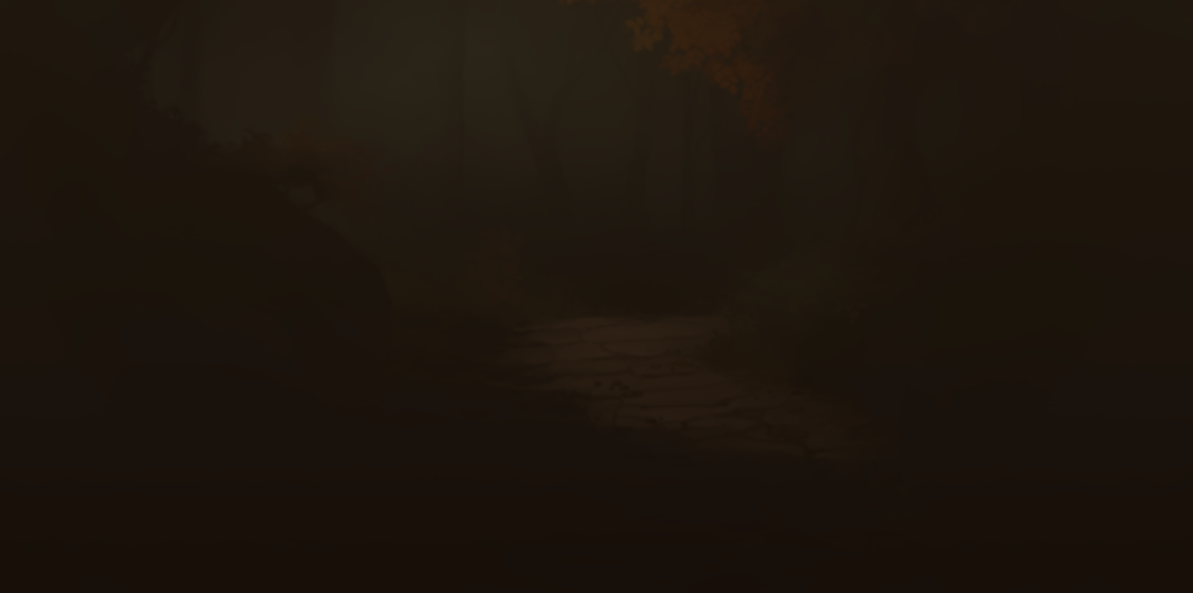
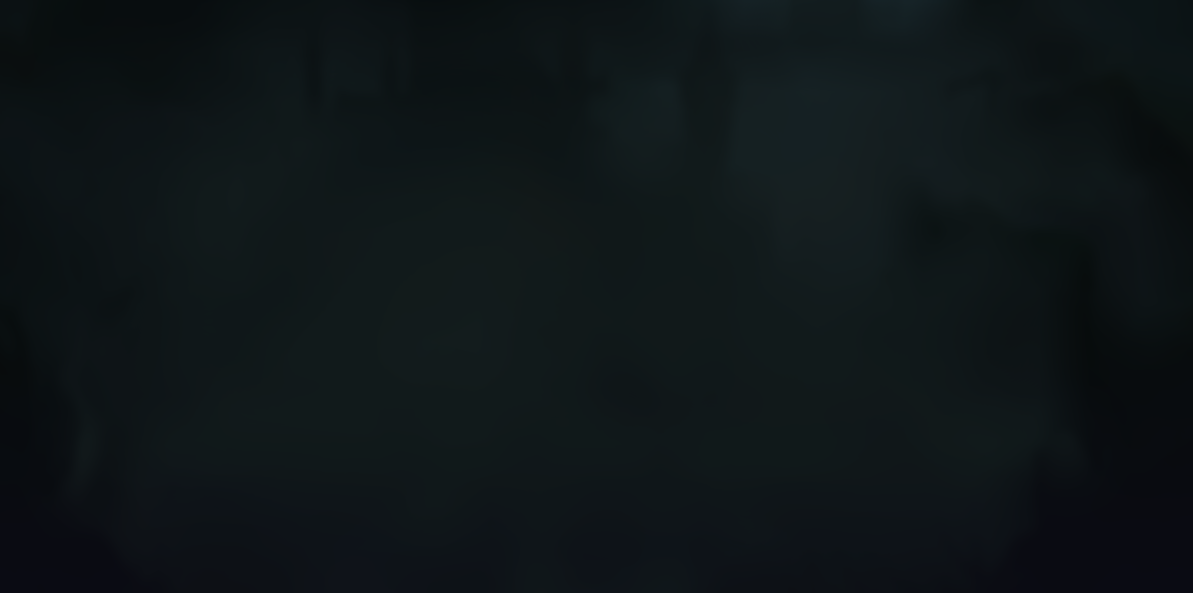
GridStudio 1.9.8
Dota's update of 2026-10-07 (client 6946–6951): the main menu's default background is now the Monster
Hoard treasure promo and Valve's news column has its own «Диковинки Квортеро» cell.
- assets/dota-menu/dashboard.xml follows the new override-background; the rest of the menu layouts are
  unchanged. check-dota-menu.mjs reads Source 2 Viewer 12's references without «_c» like ours.
- The pack no longer adds our event button (event.json no longer matches); the builder's preview shows
  Valve's Quartero cell (assets/dota-menu/ui/season.webp, scripts/make-menu-season.mjs).
- News cards one by one: switches for Dark Carnival and Quartero (recipe `news`). Both hidden cut
  #TodayPages as before; one hidden adds panorama/styles/gridstudio_home.vcss_c collapsing its cell.
- The «Как в Dota» grid backdrop from monster_hoard_2026_background_png.vtex_c, blurred by 6 px like
  every page but home, fitted to the user's «Герои» screenshot with the grid masked
  (make-grid-background.mjs --blur 6 --content).

Changed region(s): [[0.1241, 0.0, 0.6513, 0.2732], [0.4652, 0.516, 0.5893, 0.6981]]

diff --git a/src/customize/MenuBackground.jsx b/src/customize/MenuBackground.jsx
@@ -193,7 +193,7 @@ function OwnFields({ own, aspect, where }) {
 export default function MenuBackground({ preset = null, studioItem = null, onRemove }) {
   const [file, setFile] = useState(null), [kind, setKind] = useState(null), [source, setSource] = useState(''), [aspect, setAspect] = useState('16:9'), [fit, setFit] = useState('cover');
   const [blur, setBlur] = useState(0), [dim, setDim] = useState(0), [frame, setFrame] = useState(MENU_FRAME), [framing, setFraming] = useState(null);
-  const [clean, setClean] = useState(false), [seasonButton, setSeasonButton] = useState(true), [profileLinks, setProfileLinks] = useState(true), [folder, setFolder] = useState(lang === 'en' ? 'english' : 'russian'), [delivery, setDelivery] = useState('file');
+  const [carnival, setCarnival] = useState(true), [seasonCard, setSeasonCard] = useState(true), clean = !carnival && !seasonCard, [seasonButton, setSeasonButton] = useState(true), [profileLinks, setProfileLinks] = useState(true), [folder, setFolder] = useState(lang === 'en' ? 'english' : 'russian'), [delivery, setDelivery] = useState('file');
   const [duration, setDuration] = useState(0), [piece, setPiece] = useState({ start: 0, end: 0 }), [crossfade, setCrossfade] = useState(0);
   const [mediaRatio, setMediaRatio] = useState(0), [progress, setProgress] = useState(null), [result, setResult] = useState(null), [error, setErrorText] = useState(''), [failed, setFailed] = useState(false), [install, setInstall] = useState(false), [handed, setHanded] = useState(null), [sources, setSources] = useState(false), [share, setShare] = useState(false), [dragging, setDragging] = useState(false), [fetching, setFetching] = useState(null), [sending, setSending] = useState(null);
   const input = useRef(null), running = useRef(null), playhead = useRef(null), seek = useRef(null);
@@ -218,7 +218,7 @@ export default function MenuBackground({ preset = null, studioItem = null, onRem
   useEffect(() => () => source && URL.revokeObjectURL(source), [source]);
   useEffect(() => () => { if (result) for (const url of [result.url, result.heroUrl, result.gridUrl]) if (url) URL.revokeObjectURL(url); }, [result]);
   // Changing anything that is baked into the videos or the pack makes the result stale.
-  useEffect(() => { setResult(null); }, [file, aspect, fit, blur, dim, clean, seasonButton, profileLinks, piece.start, piece.end, crossfade, frame,
+  useEffect(() => { setResult(null); }, [file, aspect, fit, blur, dim, carnival, seasonCard, seasonButton, profileLinks, piece.start, piece.end, crossfade, frame,
     heroMode, ...heroOwn.stale, gridMode, gridDim, ...gridOwn.stale]);
   useEffect(() => () => running.current?.abort(), []);
   // A background from the studio: settings now, the source next (see `pending`).
@@ -230,7 +230,7 @@ export default function MenuBackground({ preset = null, studioItem = null, onRem
       if (stopped) return;
       if (!record) return setError(t('Этого фона нет в студии: возможно, его удалили.'));
       const recipe = record.recipe;
-      setAspect(recipe.aspect); setFit(recipe.fit); setBlur(recipe.blur); setDim(recipe.dim); setClean(recipe.clean); setSeasonButton(recipe.event ?? true); setProfileLinks(recipe.profile ?? true); setFolder(folderOf(recipe.folder).client); setDelivery(recipe.delivery === 'installer' ? 'command' : recipe.delivery); setFrame(menuFrame(recipe.frame));
+      setAspect(recipe.aspect); setFit(recipe.fit); setBlur(recipe.blur); setDim(recipe.dim); setCarnival(recipe.news?.carnival ?? !recipe.clean); setSeasonCard(recipe.news?.season ?? !recipe.clean); setSeasonButton(recipe.event ?? true); setProfileLinks(recipe.profile ?? true); setFolder(folderOf(recipe.folder).client); setDelivery(recipe.delivery === 'installer' ? 'command' : recipe.delivery); setFrame(menuFrame(recipe.frame));
       pending.current = recipe; studioId.current = record.id; setStudio({ id: record.id, name: record.name, saved: false });
       const hero = recipe.hero || { mode: 'menu' }, grid = recipe.grid || { mode: 'menu' };
       setHeroMode(hero.mode);
@@ -323,9 +323,9 @@ export default function MenuBackground({ preset = null, studioItem = null, onRem
       const gridEncoded = ownGrid ? await encode(gridOwn.file, gridOwn.encoding) : null;
       const hero = ownHero ? { mode: 'own', ...heroOwn.recipe } : { mode: heroMode === 'off' ? 'off' : 'menu' };
       const grid = ownGrid ? { mode: 'own', ...gridOwn.recipe } : gridMode === 'dim' ? { mode: 'dim', dim: gridDim } : { mode: 'menu' };
-      const blob = packBackground(encoded.video, { clean, hero, event: seasonButton, profile: profileLinks, grid }, heroEncoded?.video, gridEncoded?.video);
+      const blob = packBackground(encoded.video, { news: { carnival, season: seasonCard }, hero, event: seasonButton, profile: profileLinks, grid }, heroEncoded?.video, gridEncoded?.video);
       // Kept in the studio: this browser gets the WebMs, a signed-in account the recipe.
-      const recipe = { aspect, fit, blur, dim, frame, clean, event: seasonButton, profile: profileLinks, folder, delivery, piece: duration ? piece : null, crossfade: duration ? crossfade : 0, source: origin, hero, grid };
+      const recipe = { aspect, fit, blur, dim, frame, clean, news: { carnival, season: seasonCard }, event: seasonButton, profile: profileLinks, folder, delivery, piece: duration ? piece : null, crossfade: duration ? crossfade : 0, source: origin, hero, grid };
       saving.current = saveBuiltBackground({ id: studioId.current, recipe, video: encoded.video, heroVideo: heroEncoded?.video, gridVideo: gridEncoded?.video, codec: encoded.codec, seconds: encoded.seconds });
       saving.current.then((record) => { studioId.current = record.id; setStudio({ id: record.id, name: record.name, saved: true, account: record.account }); })
         .catch(() => setStudio((current) => ({ ...current, failed: true })));
@@ -423,7 +423,7 @@ export default function MenuBackground({ preset = null, studioItem = null, onRem
           {/* The hero can be turned once there is a background behind it; until then it stands behind the «+». */}
           {page === 'hero' ? <DotaHeroPage interactive={heroMode === 'off' || Boolean(heroMode === 'own' ? ownShown : shown)}/>
             : page === 'grid' ? <DotaGridPage grid={preview.grid} name={preview.name}/>
-            : <DotaMenu clean={clean} event={SEASON_EVENT ? seasonButton : null}/>}
+            : <DotaMenu news={{ carnival, season: seasonCard }} event={SEASON_EVENT ? seasonButton : null}/>}
           {fetching && <div className="custom-fetching" role="status"><b>{fetching.title ? t('Загружаем «{title}»', { title: fetching.title }) : t('Загружаем фон…')}</b><span><i style={{ width: `${Math.round(fetching.progress * 100)}%` }}/></span></div>}
         </div>
       </div>
@@ -460,7 +460,9 @@ export default function MenuBackground({ preset = null, studioItem = null, onRem
         <Field label={t('Картинка')} aside={FITS()[fit]}><Segmented label={t('Как вписать')} value={fit} onChange={setFit} options={FIT_OPTIONS()}/>
           <Effects blur={blur} onBlur={setBlur} dim={dim} onDim={setDim} frame={file ? frame : null} onFrame={setFrame}/></Field>
         <div className="custom-switches">
-          <label className="custom-toggle"><input type="checkbox" role="switch" checked={!clean} onChange={(event) => setClean(!event.target.checked)}/><span><b>{t('Отображать новости на главной')}</b><small>{t('Выключи, чтобы колонка справа не закрывала фон')}</small></span></label>
+          {/* The news column's two cards, each its own switch (2026-10-08): Dark Carnival and Valve's own «Диковинки Квортеро». */}
+          <label className="custom-toggle"><input type="checkbox" role="switch" checked={carnival} onChange={(event) => setCarnival(event.target.checked)}/><span><b>{t('Карточка Dark Carnival на главной')}</b><small>{t('Выключи, чтобы она не закрывала фон')}</small></span></label>
+          <label className="custom-toggle"><input type="checkbox" role="switch" checked={seasonCard} onChange={(event) => setSeasonCard(event.target.checked)}/><span><b>{t('Карточка «Диковинки Квортеро» на главной')}</b><small>{t('Выключи, чтобы она не закрывала фон')}</small></span></label>
           {SEASON_EVENT && <label className="custom-toggle"><input type="checkbox" role="switch" checked={seasonButton} onChange={(event) => setSeasonButton(event.target.checked)}/><span><b>{t('Кнопка «{name}»', { name: t(SEASON_EVENT.name) })}</b><small>{t('Ивент с наградами в один клик — нажми в превью')}</small></span></label>}
           <Peek src={profilePreview} width={480} height={144} caption={t('Так кнопки встанут в профиле любого пользователя Dota, под статусом: открывают его страницу на Stratz и Dotabuff.')}>
             <label className="custom-toggle"><input type="checkbox" role="switch" checked={profileLinks} onChange={(event) => setProfileLinks(event.target.checked)}/><span><b>{t('Кнопки Stratz и Dotabuff в профилях')}</b><small>{t('Наведи, чтобы увидеть, как это выглядит')}</small></span></label>

diff --git a/src/customize/DotaMenu.jsx b/src/customize/DotaMenu.jsx
@@ -3,7 +3,8 @@ import bar from '../../assets/dota-menu/ui/bar.webp';
 import barMid from '../../assets/dota-menu/ui/bar-mid.webp';
 import play from '../../assets/dota-menu/ui/play.webp';
 import chat from '../../assets/dota-menu/ui/chat.webp';
-import news from '../../assets/dota-menu/ui/news.webp';
+import newsCell from '../../assets/dota-menu/ui/news.webp';
+import seasonCell from '../../assets/dota-menu/ui/season.webp';
 import rail from '../../assets/dota-menu/ui/rail.webp';
 import railParty from '../../assets/dota-menu/ui/rail-party.webp';
 import avatar from '../../assets/dota-menu/ui/avatar.webp';
@@ -26,7 +27,10 @@ import eventScreen from '../../assets/dota-menu/ui/event-screen.webp';
 // «НАЗАД», like in the game: drawn in CSS like the pack's, with the logo and the texts from
 // scripts/make-menu-event.mjs (the screen loads on the first hover). `event` is null when the site
 // has no event; false keeps the button mounted but away, so turning it on and off both animate.
-export default function DotaMenu({ clean, event = null }) {
+// news: { carnival, season } — which cards of the news column show (2026-10-08); hiding Dark Carnival
+// moves the Quartero card up to the column's top, like the column's flow in the game.
+export default function DotaMenu({ news = { carnival: true, season: true }, event = null }) {
+  const clean = !news.carnival;
   const frame = useRef(null), layer = useRef(null), mail = useRef(null), [open, setOpen] = useState(false);
   const [season, setSeason] = useState(false), [warm, setWarm] = useState(false), [loaded, setLoaded] = useState(false);
   useEffect(() => { if (!event) setSeason(false); }, [event]);
@@ -59,8 +63,10 @@ export default function DotaMenu({ clean, event = null }) {
     <div className="dm-bar-right" style={{ backgroundImage: `url(${bar})` }}/>
     <div className="dm-rail"><img src={rail} alt=""/></div>
     <div className="dm-party"><img src={railParty} alt=""/><img className="dm-party-me" src={avatar} alt=""/></div>
-    {/* Stays mounted, so hiding and showing the news both animate. */}
-    <img className={`dm-news${clean ? ' is-hidden' : ''}`} src={news} alt=""/>
+    {/* Stays mounted, so hiding and showing the news both animate. Under the event card, since Dota's
+        update of 2026-10-07, Valve's own «Диковинки Квортеро» cell (scripts/make-menu-season.mjs). */}
+    <img className={`dm-news${news.carnival ? '' : ' is-hidden'}`} src={newsCell} alt=""/>
+    <img className={`dm-news dm-season${news.season ? '' : ' is-hidden'}${news.carnival ? '' : ' is-top'}`} src={seasonCell} alt=""/>
     {/* Under the event card, or at the column's top when the news are hidden (MENU_UI in menu-background.mjs). */}
     {event !== null && <button type="button" tabIndex={-1} className={`dm-event-toggle${clean ? ' is-top' : ''}${event ? '' : ' is-off'}`} onPointerEnter={() => setWarm(true)}
       onPointerDown={(e) => e.stopPropagation()} onClick={() => { setWarm(true); setSeason((value) => !value); }}>

diff --git a/src/customize/background-pack.js b/src/customize/background-pack.js
@@ -40,7 +40,10 @@ export function saveFile(blob, name) {
 export const SEASON_EVENT = menuEvent(dashboard, season);
 const gridOption = (grid, gridVideo) => grid?.mode === 'dim' ? { page: heroesPage, dim: (grid.dim / 100) * GRID_DIM.max }
   : grid?.mode === 'own' && gridVideo ? { page: heroesPage, video: gridVideo } : null;
-export const packBackground = (video, { clean, hero = { mode: 'menu' }, event = true, profile = true, grid = { mode: 'menu' } }, heroVideo = null, gridVideo = null) => new Blob([menuBackgroundPack({ video, dashboard, home: clean ? home : null,
+// news: { carnival, season } — the home page's news cards that stay (2026-10-08); `clean` (before it)
+// hides both.
+export const packBackground = (video, { clean, news = null, hero = { mode: 'menu' }, event = true, profile = true, grid = { mode: 'menu' } }, heroVideo = null, gridVideo = null) => new Blob([menuBackgroundPack({ video, dashboard, home,
+  news: clean ? { carnival: false, season: false } : { carnival: news?.carnival !== false, season: news?.season !== false },
   hero: hero?.mode === 'off' ? null : { page: heroPage, video: hero?.mode === 'own' ? heroVideo : null }, event: event ? season : null,
   profile: profile ? { page: showcase, icons: { stratz, dotabuff } } : null, grid: gridOption(grid, gridVideo), md5 })], { type: 'application/octet-stream' });
 // «Командой PowerShell» (and the .bat installer's 'installer' of before): the pack goes to the site and

diff --git a/src/customize/customize.css b/src/customize/customize.css
@@ -249,6 +249,8 @@ html:has(#catalog-root .custom-app), body:has(#catalog-root .custom-app) { overf
   transition:opacity 340ms var(--ease) 140ms, transform 440ms var(--ease) 140ms; }
 /* Hiding the news: the card leaves first and the event button glides up into its place; showing
    them: the button goes down first and the card comes back after it (the delays below). */
+.dm-season { top:600px; height:234px; transition:opacity 340ms var(--ease) 140ms, transform 440ms var(--ease) 140ms, top 440ms var(--ease); }
+.dm-season.is-top { top:100px; }
 .dm-news.is-hidden { opacity:0; transform:translateX(24px) scale(.98); transition:opacity 220ms ease-in, transform 300ms ease-in; }
 /* The season event (DotaMenu `event`): the screen between the friends rail and the news column, its
    own picture blurred behind the edges, under the panels; the button and its «НАЗАД» state. The

diff --git a/src/i18n/en/customize.js b/src/i18n/en/customize.js
@@ -125,6 +125,9 @@ export default {
   'Экран': 'Screen',
   'Как вписать': 'How to fit',
   'Отображать новости на главной': 'Show news on the home page',
+  'Карточка Dark Carnival на главной': 'Dark Carnival card on the home page',
+  'Карточка «Диковинки Квортеро» на главной': 'Quartero\'s Curios card on the home page',
+  'Выключи, чтобы она не закрывала фон': 'Turn off so it does not cover the background',
   'Выключи, чтобы колонка справа не закрывала фон': 'Turn off so the right column doesn’t cover the background',
   // The event's English name in the client is not known here: the button is named by what it is.
   'Кнопка «{name}»': '“{name}” button',

diff --git a/docs/customize.md b/docs/customize.md
@@ -47,6 +47,13 @@
 - Превью (`DotaMenu.jsx`, проп `event`): кнопка нарисована в CSS по тем же числам, что и в паке; логотип вырезан со скриншота меню с паком (отделён от тёмной подложки кнопки), надписи «Диковинки Квортеро» и «Назад» нарисованы шрифтом Radiance, как панель друзей (`scripts/make-menu-event.mjs`, скриншоты пользователя от 01.10.2026 в репозиторий не попадают). Всё анимировано (`customize.css`, `.dm-event*`; при «уменьшении движения» анимаций нет): галочка уводит кнопку вправо и возвращает её, логотип и надпись догоняют; при выключении новостей карточка уходит первой, а кнопка с задержкой поднимается на её место, при возврате — наоборот; надпись и «НАЗАД» меняются, уезжая вверх и приходя снизу; экран ивента проявляется, оседая из лёгкого увеличения (только когда картинка загрузилась), и гаснет быстрее. Клик показывает середину экрана ивента между панелью друзей и колонкой (1134 × 959 px, грузится при первом наведении), по краям — та же картинка, размытая. Галочка «Кнопка «Диковинки Квортеро»» есть, только пока `event.json` совпадает с меню.
 - Рецепт студии хранит `event`; у рецептов до 1.6.4 его нет — кнопка включена.
 
+### Обновление Dota 7 октября 2026 (1.9.8)
+
+- Главный экран Valve по умолчанию — промо сокровищницы `dashboard_background_monster_hoard_2026` («Trove of Terror»). Остальная разметка меню не изменилась; `assets/dota-menu/dashboard.xml` обновлён (клиент 6951), `check-dota-menu.mjs` теперь приводит ссылки нового декомпилятора (`.vcss` без `_c`) к нашему виду.
+- Valve сами добавили в колонку новостей ячейку «Диковинки Квортеро» (`banners/front_page_seasonal_reward_line.xml`, открывает страницу наград `DOTAShowSeasonalRewardsPage` и от фона меню не зависит). Наша кнопка ивента больше не добавляется: `event.json` не совпадает с текущим `override-background`; превью показывает ячейку Valve (`assets/dota-menu/ui/season.webp`, `scripts/make-menu-season.mjs`).
+- Новости по отдельности: переключатели «Карточка Dark Carnival» и «Карточка «Диковинки Квортеро»» (рецепт `news: { carnival, season }`, старые рецепты — `clean`). Обе выключены — `#TodayPages` вырезается, как раньше; одна — главная получает `<include>` нашего `panorama/styles/gridstudio_home.vcss_c` со `visibility: collapse` для `.FrontPageDarkCarnivalCell` или `.FrontPageSeasonalRewardLineCell`. В игре вариант с одной карточкой не проверен.
+- Фон «как в Dota» (`assets/backgrounds/dota-*.webp`) — из текстуры `monster_hoard_2026_background_png.vtex_c`: на всех страницах, кроме главной, Valve размывают её на 6 px; тон подогнан по скриншоту «Героев» с сеткой (`make-grid-background.mjs --blur 6 --content`). Текстуру из игры пользователя достаёт PowerShell-скрипт, сам читающий `pak01_dir.vpk` (временно на dev, удалён после).
+
 ### Фон под сеткой героев (с 1.6.4)
 
 Запрос пользователя: фон, который хорош в меню, на странице «Герои» мешает своей сетке — приходится подбирать фон меню под сетку. Страница «Герои» (`dashboard_page_heroes.xml`: `DOTAHeroesPage` с `margin-top: 120px`, баны и `DOTAHeroGridNew`) своего фона не имеет, сквозь неё виден фон меню. Отдельного класса для неё у Dota нет (только `.OnHomePage` для главной), так что фон меню отсюда не затемнить — пак подменяет страницу Valve (`gridPage` в `scripts/menu-background.mjs`):

diff --git a/assets/ATTRIBUTION.md b/assets/ATTRIBUTION.md
@@ -10,7 +10,7 @@ Hero portraits in `assets/heroes/` are Dota 2 assets from Valve's public CDN (`h
 
 Vertical hero portraits in `assets/portraits/{id}.webp` are the in-game hero selection art (`panorama/images/heroes/selection/npc_dota_hero_*.png`), taken from the Spectral.gg Resources Hub (`https://courier.spectral.gg/images/dota/portraits_vert_lg/{name}.png`, 284 × 376, by leamare), retrieved on 2026-09-29 and served locally, never hotlinked. They replace Valve's legacy `_vert.jpg` catalog, which carries outdated art for some heroes, and STRATZ 71 × 94 copies for the newest heroes. Converted with `cwebp -q 85 -m 6 -sharp_yuv`; `node scripts/build-data.cjs` then points the hero data at the WebP files. For a new hero, download its `{name}.png` from the same folder, convert it to `{id}.webp` and rebuild the data. The canvas crops these 71:94 portraits to the tall hero-grid card proportions without stretching them; player cosmetics, hero levels and badges are not included. The artwork belongs to Valve Corporation and is not covered by this repository's MIT license.
 
-Hero-screen backdrops in `assets/backgrounds/` come from the Dota 2 panorama texture `fall_background_png.vtex_c` (…/backgrounds/fall_background.png, 3840 × 2164) supplied by the user on 2026-09-29; its VTEX format 16 stores a plain PNG after the resource blocks. `scripts/make-grid-background.mjs` darkens it the way the game does, fitted to a clean 1080p screenshot of the empty hero grid supplied the same day: `dota-grid.webp` (2×) and `dota-grid-1x.webp` are the part under the 1193 × 593 grid, `dota-screen.webp` the whole 1920 × 1080 screen; lossless WebP, because lossy encoding bands this dark image. The artwork belongs to Valve Corporation and is not covered by this repository's MIT license.
+Hero-screen backdrops in `assets/backgrounds/` come, since Dota's update of 2026-10-07, from the panorama texture `panorama/images/backgrounds/monster_hoard_2026_background_png.vtex_c` (3840 × 1620, copied from the user's game files on 2026-10-08), blurred by 6 px like every page but the home page and fitted to the user's 1080p screenshot of the «Герои» page with the grid, its cards and glyphs masked (`node scripts/make-grid-background.mjs <png> <screenshot> <out> --blur 6 --content`). Before, they came from the Dota 2 panorama texture `fall_background_png.vtex_c` (…/backgrounds/fall_background.png, 3840 × 2164) supplied by the user on 2026-09-29; its VTEX format 16 stores a plain PNG after the resource blocks. `scripts/make-grid-background.mjs` darkens it the way the game does, fitted to a clean 1080p screenshot of the empty hero grid supplied the same day: `dota-grid.webp` (2×) and `dota-grid-1x.webp` are the part under the 1193 × 593 grid, `dota-screen.webp` the whole 1920 × 1080 screen; lossless WebP, because lossy encoding bands this dark image. The artwork belongs to Valve Corporation and is not covered by this repository's MIT license.
 
 Inter by Rasmus Andersson and the Inter Project Authors (https://github.com/rsms/inter, release v4.1; SIL Open Font License 1.1, `assets/preview-fonts/inter/OFL.txt`) draws the server's link preview pictures (Medium, SemiBold and Bold, unmodified).
 

diff --git a/CHANGELOG.md b/CHANGELOG.md
@@ -1,5 +1,17 @@
 # GridStudio
 
+## 1.9.8 — 8 октября 2026
+
+### Фон главного меню
+
+- Конструктор обновлён под главное меню Dota после обновления 7 октября: файлы меню, из которых собирается фон, совпадают с новой версией игры, превью показывает новую колонку новостей.
+- В «Диковинки Квортеро» теперь ведёт родная карточка Dota под Dark Carnival, поэтому своя кнопка ивента в фон больше не добавляется.
+- Вместо «Отображать новости на главной» — два переключателя: карточку Dark Carnival и карточку «Диковинки Квортеро» можно скрыть по отдельности; если скрыть Dark Carnival, Квортеро поднимается на её место.
+
+### Мастерская
+
+- Фон «Как в Dota» под сетками (мастерская, превью в редакторе) — новый, как в игре после обновления 7 октября: туманный лес из файлов Dota, размытый и затемнённый так же, как на странице «Герои».
+
 ## 1.9.7 — 8 октября 2026
 
 ### Сайт
